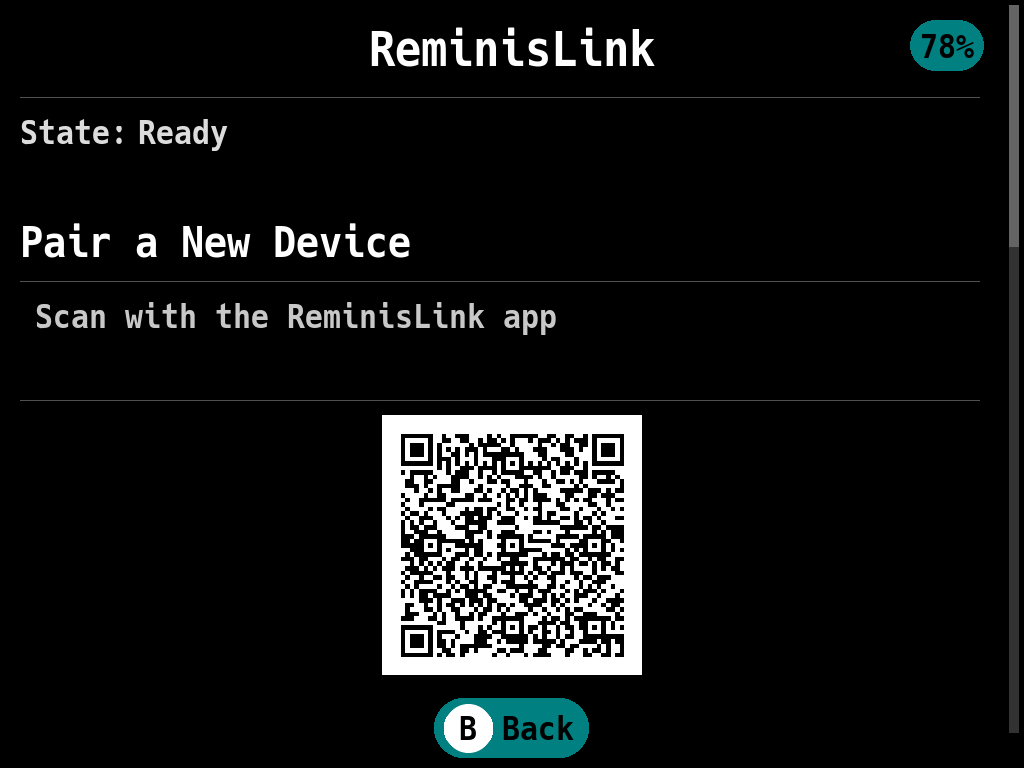
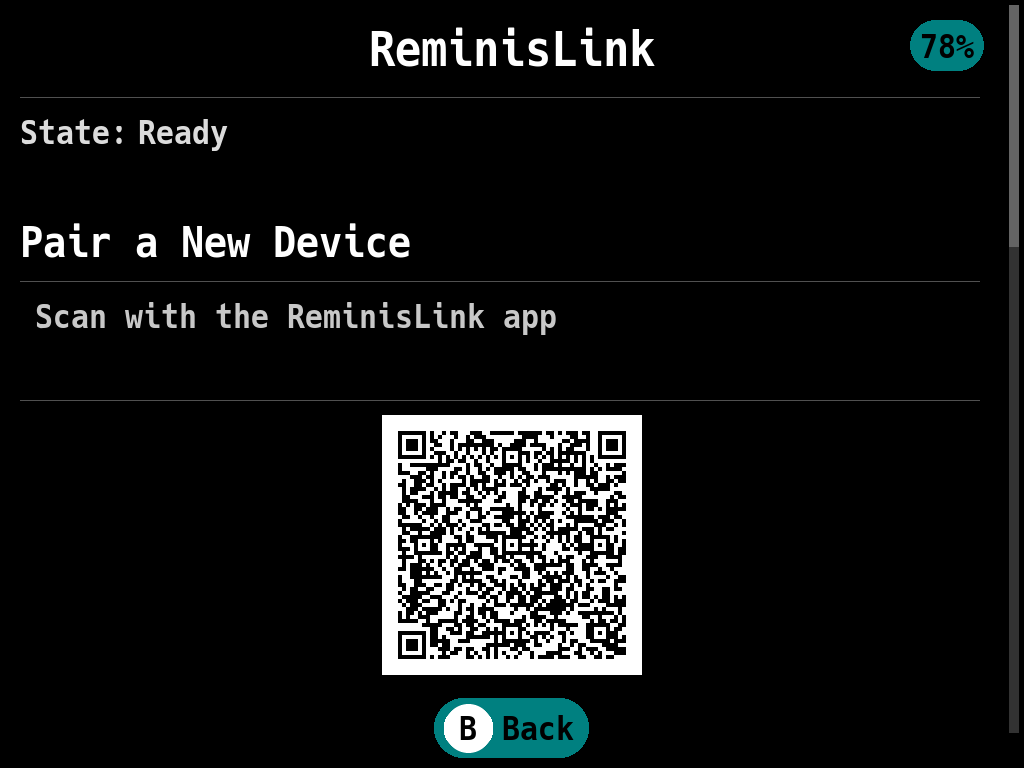
Regenerate the pak screenshots without the removed pairing code
make screenshots now shows QR-only pairing and the Devices menu; copy
the pairing and settings screens to the site assets.

Changed region(s): [[0.375, 0.5625, 0.625, 0.875]]

diff --git a/site/README.md b/site/README.md
@@ -17,8 +17,7 @@ no JavaScript, no cookies, no trackers and nothing loaded from another site
 `ios/ReminisLink/Resources/Assets.xcassets/AppIcon.appiconset/AppIcon.png`,
 resized with `sips -z 256 256`) and screenshots of the pak, copied from
 `docs/screenshots/` (`pairing.png`, `settings.png` and `language.png`, as
-`pak-pairing.png`, `pak-settings.png` and `pak-language.png`; `main.png` is
-not used while it still shows the pairing code removed in M13). Copy them
+`pak-pairing.png`, `pak-settings.png` and `pak-language.png`). Copy them
 again after `make screenshots`. `favicon.svg` is `ios/Design/AppIcon/icon.svg`.
 `tools/` and this README are not published.
 
